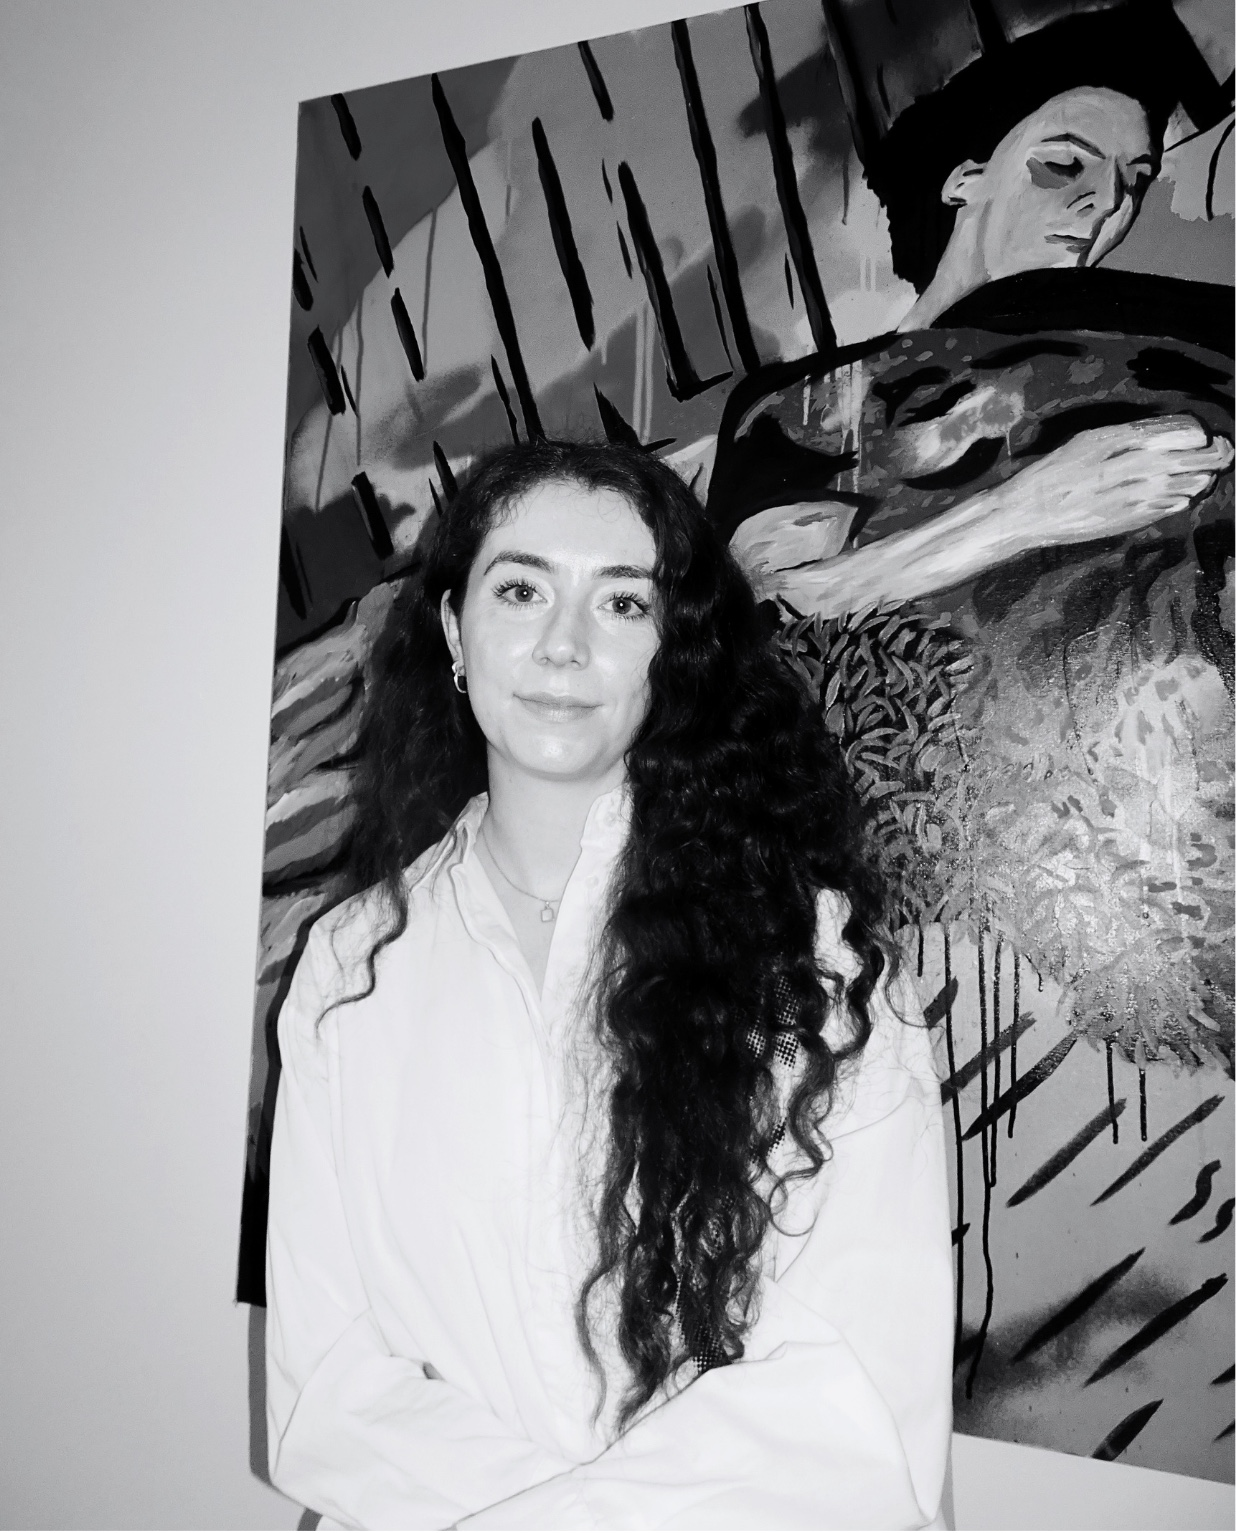
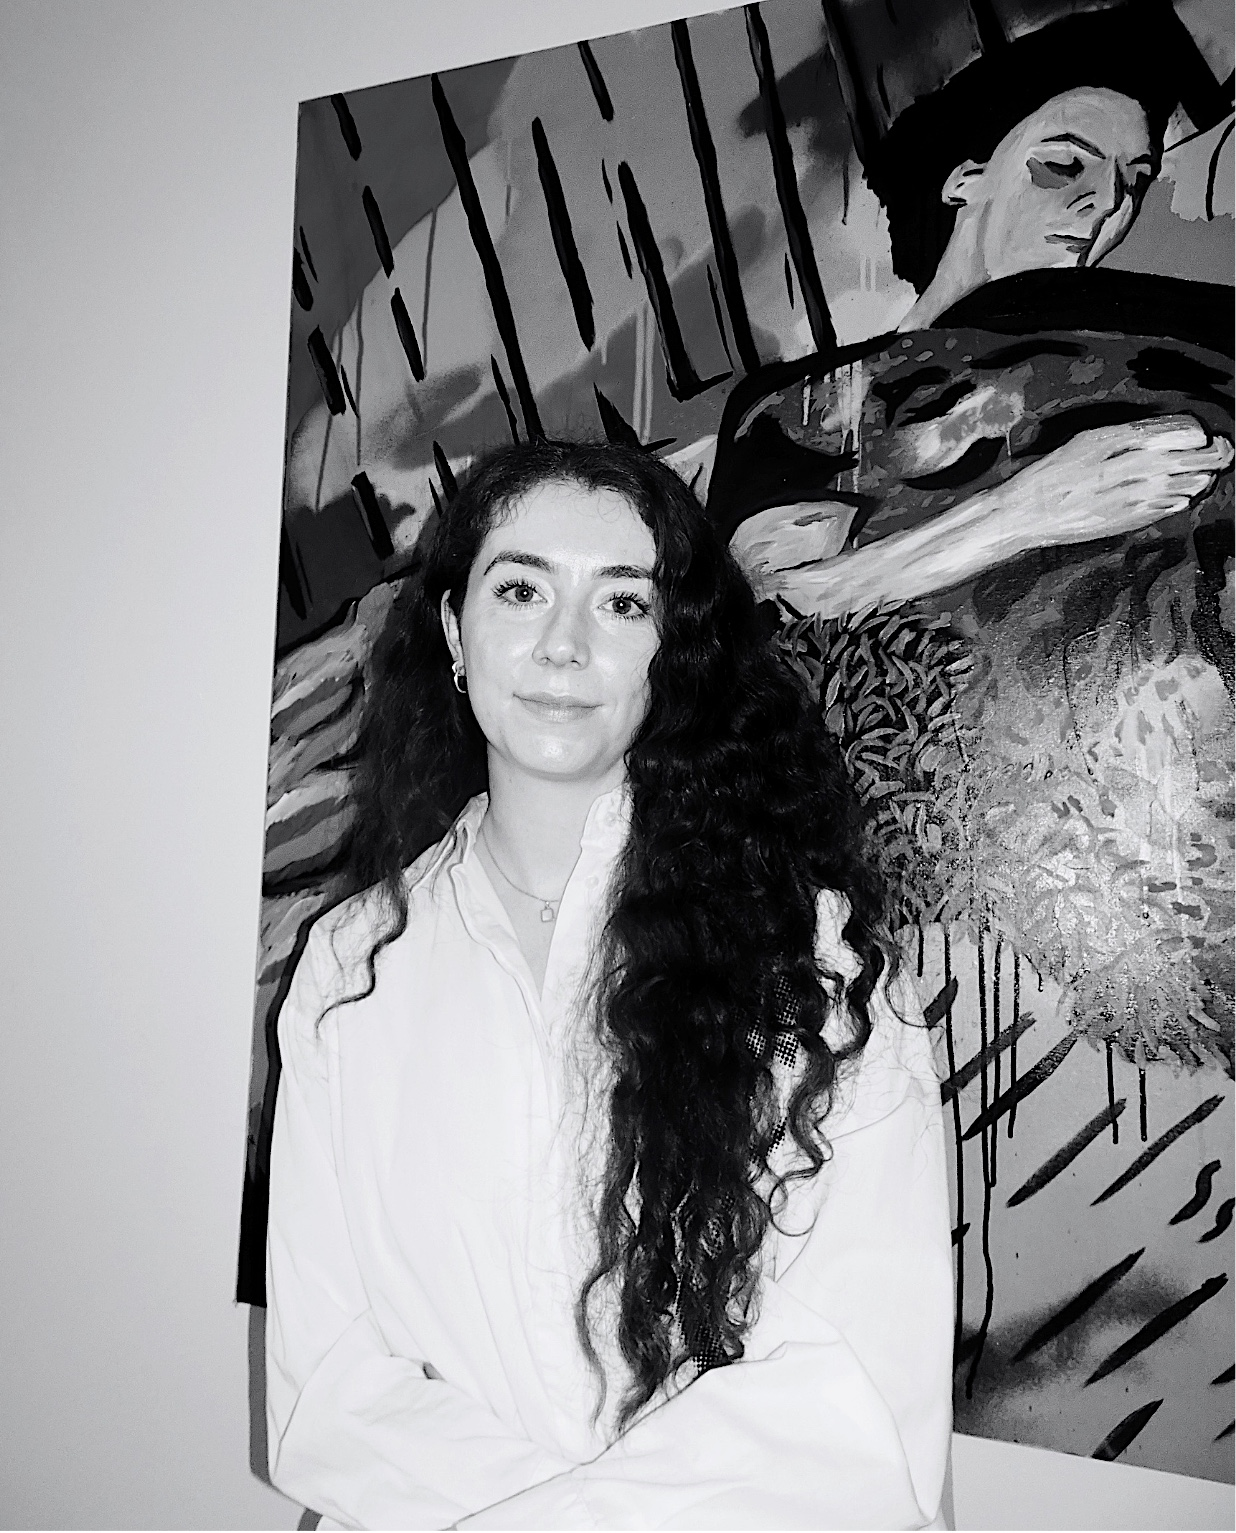
Crisp headshot and notebooks on phones
- Version-tag style.css / content.js / main.js links (Cloudflare lets browsers
  keep them 4 hours, so phones were running old code pointing at old images)
- mediaVersion 4; new Say hi notebook from Lily
- Headshot: full 1236px with a gentle unsharp mask
- Say hi card 290px wide on phones so its 844px file stays crisp at 3x

diff --git a/about.html b/about.html
@@ -15,7 +15,7 @@
   <link rel="icon" href="favicon-192.png?v=3" type="image/png" sizes="192x192">
   <link rel="icon" href="favicon-32.png?v=3" type="image/png" sizes="32x32">
   <link rel="apple-touch-icon" href="apple-touch-icon.png?v=3">
-  <link rel="stylesheet" href="style.css">
+  <link rel="stylesheet" href="style.css?v=4">
 </head>
 <body>
   <main class="page">
@@ -29,7 +29,7 @@
     </div>
     <footer class="page__foot"><a href="/work" data-page="work"><span data-hw-arrow="left" aria-hidden="true">←</span> <span data-hw="work">Work</span></a><a href="/say-hi" data-page="say-hi"><span data-hw="say-hi">Say hi</span> <span data-hw-arrow="right" aria-hidden="true">→</span></a></footer>
   </main>
-  <script src="content.js"></script>
-  <script src="main.js"></script>
+  <script src="content.js?v=4"></script>
+  <script src="main.js?v=4"></script>
 </body>
 </html>

diff --git a/say-hi.html b/say-hi.html
@@ -15,7 +15,7 @@
   <link rel="icon" href="favicon-192.png?v=3" type="image/png" sizes="192x192">
   <link rel="icon" href="favicon-32.png?v=3" type="image/png" sizes="32x32">
   <link rel="apple-touch-icon" href="apple-touch-icon.png?v=3">
-  <link rel="stylesheet" href="style.css">
+  <link rel="stylesheet" href="style.css?v=4">
 </head>
 <body>
   <main class="page">
@@ -28,7 +28,7 @@
     </div>
     <footer class="page__foot"><a href="/about" data-page="about"><span data-hw-arrow="left" aria-hidden="true">←</span> <span data-hw="about">About</span></a><a href="/" data-page="index"><span data-hw="home">Home</span> <span data-hw-arrow="up" aria-hidden="true">↑</span></a></footer>
   </main>
-  <script src="content.js"></script>
-  <script src="main.js"></script>
+  <script src="content.js?v=4"></script>
+  <script src="main.js?v=4"></script>
 </body>
 </html>

diff --git a/style.css b/style.css
@@ -176,7 +176,7 @@ h1, h2 { margin: 0; font: inherit; }
   .about { flex-direction: column; align-items: stretch; }
   .about__photo { width: 100%; max-width: 460px; } /* same width as the notebook below, so the edges line up */
   .about__note { width: 100%; max-width: 460px; }
-  .sayhi__note { width: min(100%, 340px); }
+  .sayhi__note { width: min(100%, 290px); }   /* 290px keeps the 844px-wide card crisp on 3x phone screens; raise with a bigger export */
   .home__nav { font-size: clamp(10px, 2.9vw, 13px); }
   /* Phones: arrows sit under the video, on the same line as the caption: ←  ORGANIC SOCIAL · CANVA · PRODUCER  → */
   .lightbox { --nav: 0px; width: 92vw; }

diff --git a/index.html b/index.html
@@ -16,7 +16,7 @@
   <link rel="icon" href="favicon-32.png?v=3" type="image/png" sizes="32x32">
   <link rel="apple-touch-icon" href="apple-touch-icon.png?v=3">
   <link rel="preload" as="image" href="media/home/home-poster.jpg?v=3">
-  <link rel="stylesheet" href="style.css">
+  <link rel="stylesheet" href="style.css?v=4">
 </head>
 <body class="is-home">
   <main class="home" aria-label="Lily McGann — Integrated Creative Producer">
@@ -30,7 +30,7 @@
       </nav>
     </div>
   </main>
-  <script src="content.js"></script>
-  <script src="main.js"></script>
+  <script src="content.js?v=4"></script>
+  <script src="main.js?v=4"></script>
 </body>
 </html>

diff --git a/work.html b/work.html
@@ -15,7 +15,7 @@
   <link rel="icon" href="favicon-192.png?v=3" type="image/png" sizes="192x192">
   <link rel="icon" href="favicon-32.png?v=3" type="image/png" sizes="32x32">
   <link rel="apple-touch-icon" href="apple-touch-icon.png?v=3">
-  <link rel="stylesheet" href="style.css">
+  <link rel="stylesheet" href="style.css?v=4">
 </head>
 <body>
   <main class="page">
@@ -36,7 +36,7 @@
       <p class="lightbox__caption"></p>
     </div>
   </dialog>
-  <script src="content.js"></script>
-  <script src="main.js"></script>
+  <script src="content.js?v=4"></script>
+  <script src="main.js?v=4"></script>
 </body>
 </html>

diff --git a/content.js b/content.js
@@ -14,7 +14,7 @@ window.SITE = {
 
   // Bump this number after replacing any image or video (same file name) so every
   // browser and phone downloads the new version instead of an old saved copy.
-  mediaVersion: "3",
+  mediaVersion: "4",
 
   name: "Lily McGann",
   description: "Lily McGann is an integrated creative producer based in Sydney, with 10+ years across in-house and agency.",

diff --git a/404.html b/404.html
@@ -15,7 +15,7 @@
   <link rel="icon" href="/favicon-192.png?v=3" type="image/png" sizes="192x192">
   <link rel="icon" href="/favicon-32.png?v=3" type="image/png" sizes="32x32">
   <link rel="apple-touch-icon" href="/apple-touch-icon.png?v=3">
-  <link rel="stylesheet" href="/style.css">
+  <link rel="stylesheet" href="/style.css?v=4">
 </head>
 <body>
   <main class="page">

diff --git a/CLAUDE.md b/CLAUDE.md
@@ -25,7 +25,7 @@ The old Direct Upload project `lilymcgann` was deleted on 13 Nov 2026.
 
 Every push to `main` deploys automatically to lilymcgann.com: `git add -A && git commit -m "..." && git push`. Xcode Command Line Tools are installed, so git works; `gh` and Homebrew are not installed.
 
-**Caching:** every `media/...` path gets `?v=<SITE.mediaVersion>` added by `main.js` (and the favicon links in the HTML carry `?v=3`). After replacing any media file with the same name, **bump `mediaVersion` in content.js** so phones and browsers fetch the new file instead of a saved copy. Separately, lilymcgann.com is a proxied Cloudflare zone, so its edge cache keeps `/media/*` files for up to an hour (`_headers`). After swapping a media file with the same name, either wait an hour or purge: Cloudflare → lilymcgann.com → Caching → Configuration → Purge Everything. (At launch the zone was still serving day-old low-res images until purged.)
+**Caching:** every `media/...` path gets `?v=<SITE.mediaVersion>` added by `main.js` (and the favicon links in the HTML carry `?v=3`). After replacing any media file with the same name, **bump `mediaVersion` in content.js** so phones and browsers fetch the new file instead of a saved copy. Cloudflare tells browsers to keep .js/.css for 4 hours, so the HTML loads `style.css?v=N`, `content.js?v=N`, `main.js?v=N` — bump those in all five HTML files after changing code. Separately, lilymcgann.com is a proxied Cloudflare zone, so its edge cache keeps `/media/*` files for up to an hour (`_headers`). After swapping a media file with the same name, either wait an hour or purge: Cloudflare → lilymcgann.com → Caching → Configuration → Purge Everything. (At launch the zone was still serving day-old low-res images until purged.)
 
 ---
 
